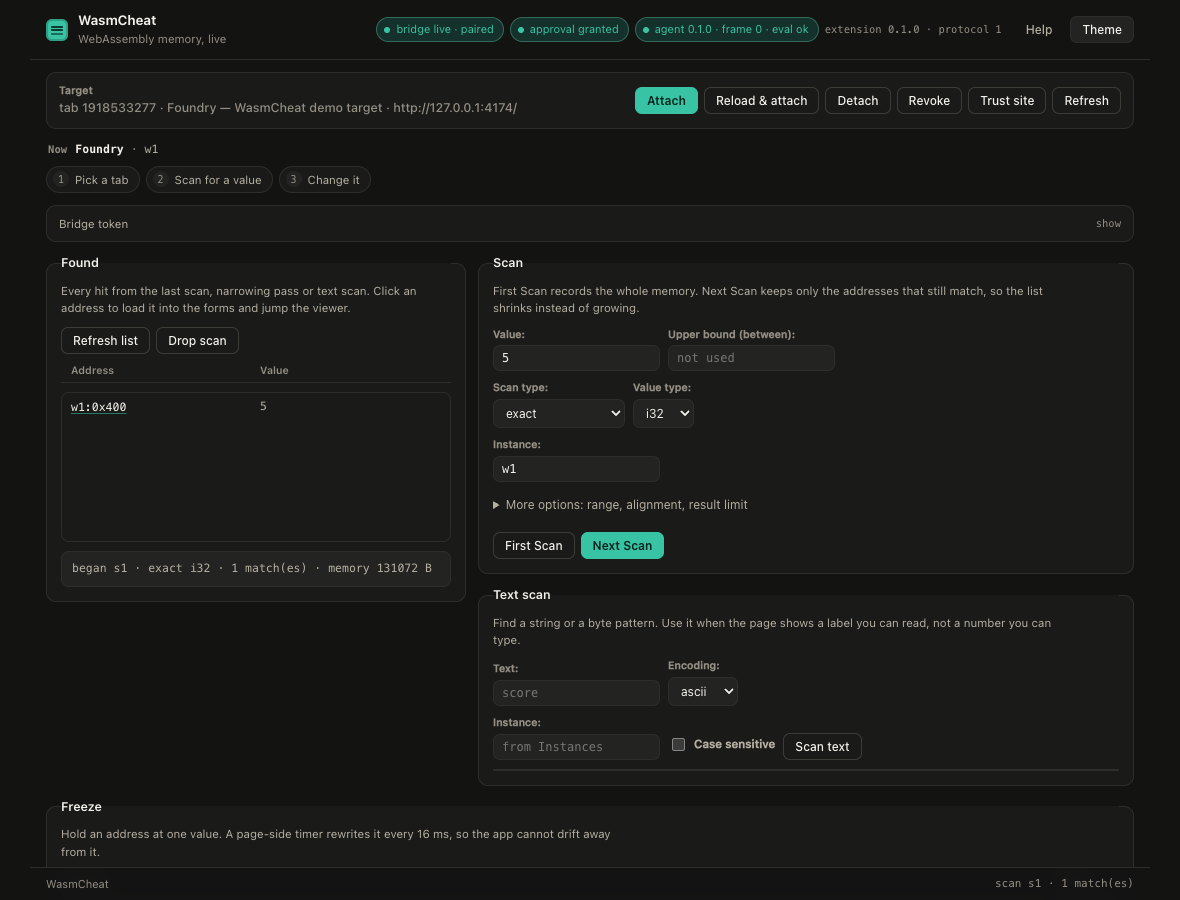
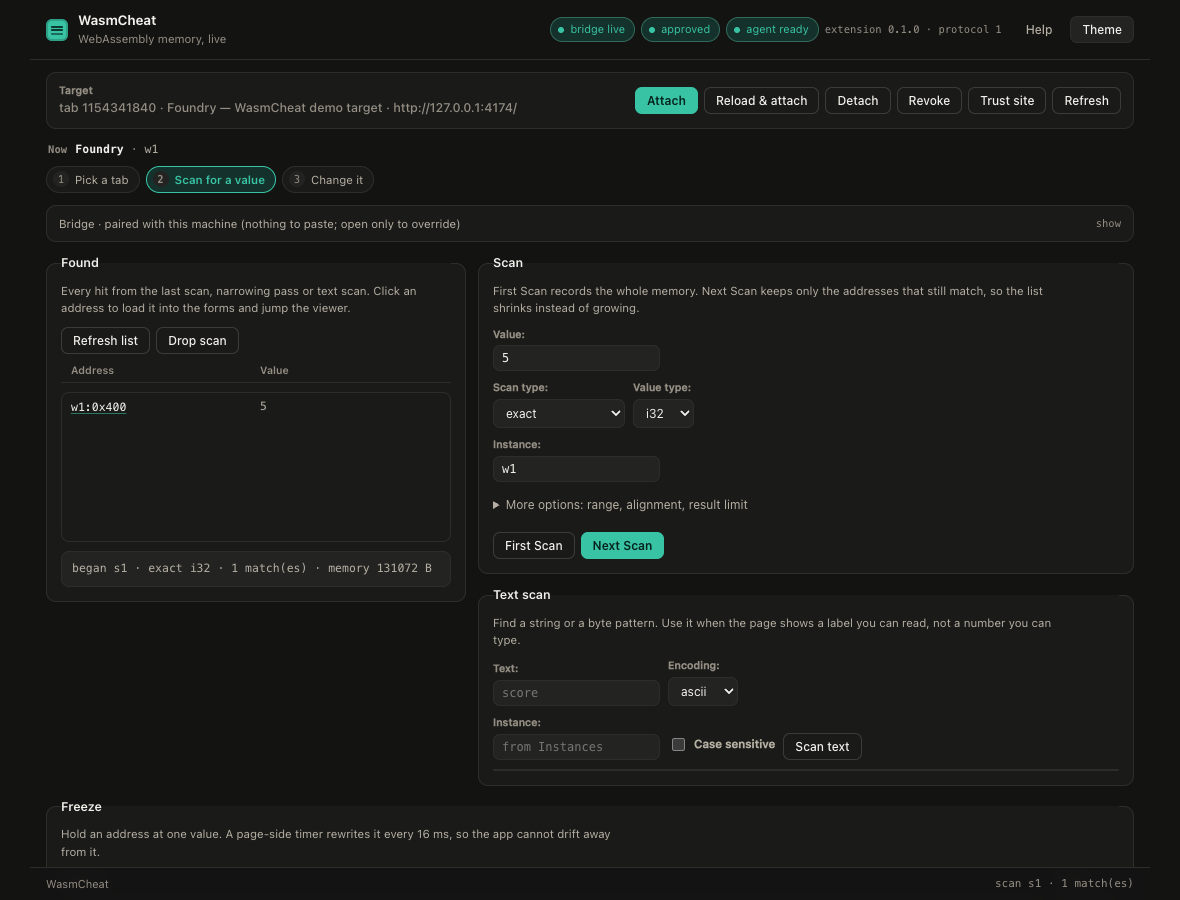
feat: a panel that shows only the next step
The scan card now hides the upper bound unless the mode needs it and labels the value optional for
the delta modes, the step strip marks where the human is instead of listing three links, and Enter
in a value field runs whichever scan is next. Nine rare cards (freeze excepted tools like patches,
hooks, pointers, workers, audit, console) sit in a collapsed Advanced tray, so the first screen is
the loop: pick a tab, scan a value, change it.

Also fixed: [hidden] fields still laid out because .field is a flex child, and the approval pill said
'granted' while the popup said 'approved'.

127 unit tests, 23 end-to-end.

diff --git a/packages/extension/src/panel.ts b/packages/extension/src/panel.ts
@@ -418,7 +418,7 @@ async function refreshStatus(): Promise<void> {
       ? 'Bridge · paired with this machine (nothing to paste; open only to override)'
       : 'Bridge token';
   if (ping.bridgeRejected) setPill('bridge', 'token refused', 'bad');
-  else if (ping.tokenSource === 'paired') setPill('bridge', 'bridge live · paired', 'live');
+  else if (ping.tokenSource === 'paired') setPill('bridge', 'bridge live', 'live');
   else if (!ping.tokenConfigured) setPill('bridge', 'waiting for pairing', 'warn');
   if (ping.pairingHint && !ping.bridgeConnected) setPill('bridge', ping.pairingHint, 'warn');
 
@@ -429,18 +429,21 @@ async function refreshStatus(): Promise<void> {
       targetTabId === undefined ? 'no target tab: pick one below' : `tab ${targetTabId} is gone`;
     setPill('approval', 'approval ?', 'idle');
     setPill('agent', 'agent ?', 'idle');
+    markStep(1);
     return;
   }
+  markStep(activeScanId === undefined ? 2 : 3);
 
   el('target').textContent = `tab ${target.tabId} · ${target.title || '(untitled)'} · ${target.url}`;
   setPill(
     'approval',
-    `approval ${target.approval}`,
+    target.approval === 'granted' ? 'approved' : `approval ${target.approval}`,
     target.approval === 'granted' ? 'live' : target.approval === 'pending' ? 'warn' : 'idle',
   );
 
   if (target.approval !== 'granted') {
     setPill('agent', target.agentAttached ? 'agent injected, not approved' : 'agent not attached', 'idle');
+    markStep(1);
     return;
   }
 
@@ -452,7 +455,7 @@ async function refreshStatus(): Promise<void> {
     });
     setPill(
       'agent',
-      `agent ${info.version} · frame ${info.frameId ?? 0} · eval ${info.evalAllowed ? 'ok' : 'blocked'}`,
+      info.evalAllowed ? 'agent ready' : 'agent ready · scripts blocked',
       info.evalAllowed ? 'live' : 'warn',
     );
   } catch (error) {
@@ -949,10 +952,37 @@ function scanCompareParams(mode: ScanMode): Record<string, unknown> {
   return params;
 }
 
+/** Which of the three steps the human is on, so the strip is a position and not decoration. */
+function markStep(step: 1 | 2 | 3): void {
+  const nav = document.querySelector('nav.steps');
+  if (!nav) return;
+  for (const link of nav.querySelectorAll('a')) {
+    const value = Number((link as HTMLElement).dataset.step);
+    link.classList.toggle('is-current', value === step);
+    link.classList.toggle('is-done', value < step);
+  }
+}
+
 function markScanStep(step: 'first' | 'narrow'): void {
   // Only one filled button at a time, and it is always the next thing to press.
   el('scan-begin').classList.toggle('primary', step === 'first');
   el('scan-narrow').classList.toggle('primary', step === 'narrow');
+}
+
+/**
+ * Hide the fields a mode does not use. A form that always shows every option teaches nothing about
+ * which ones matter, and `between` is the only mode with two values.
+ */
+function syncScanFields(): void {
+  const mode = selectOf('scan-mode').value;
+  const valueField = el<HTMLInputElement>('scan-value').closest('label');
+  const upperField = el<HTMLInputElement>('scan-value2').closest('label');
+  if (upperField) upperField.hidden = mode !== 'between';
+  // A value is optional for the delta modes (it narrows to "changed AND now equals N"); say so
+  // instead of removing the field, because typing a target there is a real technique.
+  const optional = ['changed', 'unchanged', 'increased', 'decreased'].includes(mode);
+  el<HTMLInputElement>('scan-value').placeholder = optional ? 'optional' : 'the value on screen';
+  if (valueField) valueField.classList.toggle('field--optional', optional);
 }
 
 function renderScanSummary(summary: ScanSummary): void {
@@ -1528,6 +1558,16 @@ function wire(): void {
   });
 
   bind('instances-refresh', el('instances-out'), refreshInstances);
+
+  syncScanFields();
+  selectOf('scan-mode').addEventListener('change', syncScanFields);
+  for (const id of ['scan-value', 'scan-value2']) {
+    el<HTMLInputElement>(id).addEventListener('keydown', (event) => {
+      if ((event as KeyboardEvent).key !== 'Enter') return;
+      // Enter in a value field runs whichever scan is the next step, so the mouse stays out of it.
+      el<HTMLButtonElement>(activeScanId === undefined ? 'scan-begin' : 'scan-narrow').click();
+    });
+  }
   bind('diagnose', el('diagnose-out'), diagnose);
 
   bind('mem-read', el('memory-out'), readOne);

diff --git a/packages/extension/panel.css b/packages/extension/panel.css
@@ -463,6 +463,42 @@ fieldset.group--wide {
   font-weight: 600;
 }
 
+.tray {
+  grid-column: 1 / -1;
+}
+
+/* Open, the tray is a pass-through so its cards take part in the same grid as the rest. */
+.tray[open] {
+  display: contents;
+}
+
+.tray > summary {
+  grid-column: 1 / -1;
+  cursor: pointer;
+  padding: 10px 12px;
+  border: 1px dashed var(--line);
+  border-radius: 10px;
+  background: var(--surface-2);
+  color: var(--ink-2);
+  font-size: 12.5px;
+}
+
+.tray > summary:hover {
+  color: var(--ink);
+  border-color: var(--accent);
+}
+
+.tray[open] > summary {
+  border-style: none;
+  background: none;
+  padding: 4px 2px;
+}
+
+/* `hidden` on a flex child still lays out, so make it authoritative. */
+[hidden] {
+  display: none !important;
+}
+
 .advanced {
   margin: 2px 0 6px;
 }
@@ -476,6 +512,23 @@ fieldset.group--wide {
 
 .advanced > summary:hover {
   color: var(--accent);
+}
+
+.steps a.is-current {
+  background: var(--accent-soft);
+  border-color: var(--accent);
+  color: var(--accent);
+  font-weight: 600;
+}
+
+.steps a.is-done {
+  color: var(--ink-2);
+}
+
+.field--optional > span::after {
+  content: ' (optional)';
+  color: var(--ink-3);
+  font-weight: 400;
 }
 
 .row {

diff --git a/packages/extension/panel.html b/packages/extension/panel.html
@@ -362,6 +362,8 @@
           <pre id="diagnose-out" class="out"></pre>
         </fieldset>
 
+        <details class="tray" id="advanced">
+          <summary>Advanced tools: watchpoints, patches, hooks, pointers, speed, workers, saved scans, audit, console</summary>
         <fieldset class="group" id="card-trace">
           <legend>Watchpoints</legend>
           <p class="hint">Ask which function wrote or read an address. This rewrites the module and reloads the tab, because a store cannot be observed after compilation.</p>
@@ -592,6 +594,7 @@
           </div>
           <ul id="event-log" class="list list--events"></ul>
         </fieldset>
+        </details>
       </div>
 
       <div class="statusbar">

diff --git a/tests/e2e/demo.spec.ts b/tests/e2e/demo.spec.ts
@@ -772,7 +772,7 @@ test('the DevTools panel drives the tab without an agent', async () => {
   await expect(panel.locator('#approval')).toContainText('pending');
   await panel.locator('#approve').click();
   expect(JSON.stringify(await attaching)).toContain('granted');
-  await expect(panel.locator('#approval')).toContainText('granted');
+  await expect(panel.locator('#approval')).toContainText('approved');
 
   // Write then read the score through the raw console; the DOM is the only thing asserted, so the
   // panel has to be showing what linear memory actually holds.
